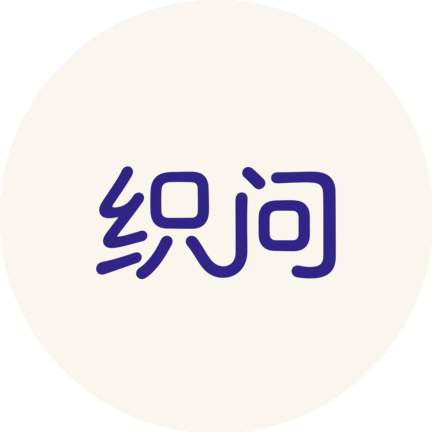
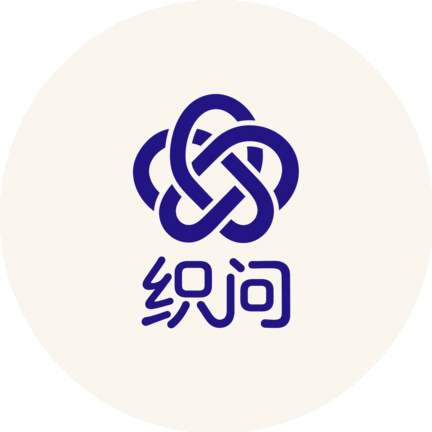
Use new artwork for launcher while preserving splash

Changed region(s): [[0.2106, 0.2106, 0.7824, 0.7824]]

diff --git a/catalog/src/test/java/app/knotwork/design/screens/splash/SplashContentSnapshotTest.kt b/catalog/src/test/java/app/knotwork/design/screens/splash/SplashContentSnapshotTest.kt
@@ -149,7 +149,7 @@ class SplashContentSnapshotTest {
     }
 
     @Test
-    fun launcher_and_splash_use_the_original_artwork_within_the_safe_area() {
+    fun splash_uses_the_original_wordmark_within_the_safe_area() {
         val originalFile = File("../brand/reference-original.jpg")
         val digest = MessageDigest.getInstance("SHA-256").digest(originalFile.readBytes())
             .joinToString("") { "%02x".format(it.toInt() and 0xff) }
@@ -186,16 +186,53 @@ class SplashContentSnapshotTest {
         val widthFraction = (maxX - minX + 1) * 75.5 / mask.width / 108
         assertTrue("The mark should occupy about 56% of the icon", widthFraction in 0.54..0.57)
         assertTrue("The artwork must stay inside the circular safe area", maxRadius <= 33.0)
-        listOf("ic_launcher_foreground", "ic_launcher_monochrome").forEach { name ->
-            val xml = File("../app/src/main/res/drawable/$name.xml").readText()
-            assertTrue(xml.contains("@drawable/brand_mark"))
-            assertTrue(xml.contains("16.25dp"))
-        }
-        val night = File("../app/src/main/res/drawable-night/ic_launcher_foreground.xml").readText()
+        val day = File("../app/src/main/res/drawable/brand_startup_foreground.xml").readText()
+        assertTrue(day.contains("@drawable/brand_mark"))
+        assertTrue(day.contains("16.25dp"))
+        val night = File("../app/src/main/res/drawable-night/brand_startup_foreground.xml").readText()
         assertTrue(night.contains("@drawable/brand_mark"))
         assertTrue(night.contains("@color/brand_startup_ink"))
         val theme = File("../app/src/main/res/values/themes.xml").readText()
-        assertTrue(theme.contains("@drawable/ic_launcher_foreground"))
+        assertTrue(theme.contains("@drawable/brand_startup_foreground"))
+    }
+
+    @Test
+    fun launcher_uses_the_new_original_artwork_within_the_safe_area() {
+        val originalFile = File("../brand/launcher-original.png")
+        val digest = MessageDigest.getInstance("SHA-256").digest(originalFile.readBytes())
+            .joinToString("") { "%02x".format(it.toInt() and 0xff) }
[1 lines of base64/hex data omitted]
+        val original = ImageIO.read(originalFile)
+        val foreground = ImageIO.read(File("../app/src/main/res/drawable-nodpi/launcher_mark.png"))
+        assertEquals(original.width, foreground.width)
+        assertEquals(original.height, foreground.height)
+        var opaque = 0
+        var differences = 0
+        var maxRadius = 0.0
+        for (y in 0 until foreground.height) {
+            for (x in 0 until foreground.width) {
+                val pixel = foreground.getRGB(x, y)
+                val alpha = pixel ushr 24
+                if (alpha == 0) continue
+                val dx = (x - foreground.width / 2.0) * 70.0 / foreground.width
+                val dy = (y - foreground.height / 2.0) * 70.0 / foreground.height
+                maxRadius = maxOf(maxRadius, kotlin.math.hypot(dx, dy))
+                if (alpha != 255) continue
+                opaque++
+                if ((pixel and 0xffffff) != (original.getRGB(x, y) and 0xffffff)) differences++
+            }
+        }
+        assertTrue("The new drawing must include opaque pixels", opaque > 20)
+        assertEquals("Opaque pixels must retain their original RGB", 0, differences)
+        assertTrue("All visible pixels must remain in the icon safe circle", maxRadius <= 33.0)
+        listOf("ic_launcher_foreground", "ic_launcher_monochrome").forEach { name ->
+            val xml = File("../app/src/main/res/drawable/$name.xml").readText()
+            assertTrue(xml.contains("@drawable/launcher_mark"))
+            assertTrue(xml.contains("19dp"))
+        }
+        val night = File("../app/src/main/res/drawable-night/ic_launcher_foreground.xml").readText()
+        assertTrue(night.contains("@drawable/launcher_mark"))
+        assertTrue(night.contains("@color/brand_startup_ink"))
     }
 
     private fun assertSameArtworkColor(original: Int, pixel: Int) {

diff --git a/brand/review/platform-investigation.md b/brand/review/platform-investigation.md
@@ -1,10 +1,29 @@
-# 系统启动动画技术调查（未通过，仍阻断）
+# 系统启动动画调查与 CI 实测（未通过，仍阻断）
 
-基线：PR #6 `3cce060`。本文件记录调查与执行环境限制，不代表完成平台技术验证。
+生产主题 `app/src/main/res/values/themes.xml` 的开屏图案为静态
+`@drawable/brand_startup_foreground`，包含原字标的位图，不是动画载体。桌面图标在用户
+更新设计后使用独立资源，不改变开屏。`MainActivity` 把平台起始时间传给 Compose；静态
+平台图标给出的时间无效时，应用显示完成态，未实现一秒逐笔织入。
 
-- 生产主题 `app/src/main/res/values/themes.xml` 的启动图标仍为静态 `@drawable/ic_launcher_foreground`，根资源是包含原图位图的 inset；它不是动画载体。`MainActivity` 的系统启动回调向 Compose 传递平台起始时间。平台提供零或无效值时，现有应用页面直接显示完成态；这不构成一秒织入。
-- 现有 Compose 的独立预览采用水平裁切，它不能证明真实启动逐笔绘制。加载页放大之后，静态系统图标到应用页也可能出现尺寸跳变；本次尚未解决进度/几何接力。
-- Android [启动画面文档](https://developer.android.com/develop/ui/views/launch/splash-screen)支持平台动画资源，并不能证明原 PNG 可无损嵌入 AnimatedVectorDrawable，也不能证明本项目中一个候选在系统启动环境已经播放。
-- [AnimationDrawable 源码](https://android.googlesource.com/platform/frameworks/base/+/refs/heads/main/graphics/java/android/graphics/drawable/AnimationDrawable.java)按运行时间及每帧时长调度；不应未经验证就认定其会遵循系统动画缩放。以普通图层包装动画也不能证明启动系统会启动内部图层。
-- 环境检查：SDK 只有 build-tools、cmdline-tools、platform-tools、platforms，未发现 emulator 和 system-images。`adb devices -l` 启动服务器时因 `/home/agent/.android` 只读失败。未有实际 API 34/36 动画候选、系统设置或系统启动实测；无最小失败设备演示，不能把源码推断当设备失败证据。
-- 后续应以原图为视觉真值实现候选，在真实主题/Activity 分别核验根载体、逐笔中间帧、末帧、0.5×/1×/2×、animator/transition 关闭组合、系统到应用的时间和尺寸、快速 ready 立即导航。不能用静态图片加 duration 或独立预览结果充当证据。
+PR #6 提交 `873d6c9` 的 [Instrumented CI](https://github.com/xialia150-wq/knotwork/actions/runs/43663906584)
+复用 API 34 和 API 36 模拟器，执行真实 `MainActivity` 冷启动录像；分别记录 1×、0.5×、
+2×、仅关闭动画器、仅关闭转场以及全部关闭。两台模拟器的正常倍率录像中，系统开屏
+均显示完整静态字标；正常与全部关闭录像均能看到系统小字标切换为较大的加载页字标。
+六组均返回 `COLD`，录像、设置和对应 APK 哈希位于上述 CI 的 artifacts。API 34 仅关闭
+动画器的录像没有捕捉到加载页，不能据此评价该组合的交接。采集成功不代表动画需求通过。
+
+当前 Compose 独立预览的水平裁切不是逐笔绘制，也不能证明真实系统启动动画。正常模式
+的约一秒织入、系统到应用的动画时间/几何接力、不同倍率和减少动效下的目标表现均未
+实现或验证。初始化不应为动画等待，错误和恢复行为也需保留。
+
+Android [启动画面文档](https://developer.android.com/develop/ui/views/launch/splash-screen)
+支持平台动画资源，并不能证明原 PNG 可无损嵌入 AnimatedVectorDrawable，也不能证明
+某候选在本项目系统启动环境已经播放。[AnimationDrawable 源码](https://android.googlesource.com/platform/frameworks/base/+/refs/heads/main/graphics/java/android/graphics/drawable/AnimationDrawable.java)
+按运行时间及每帧时长调度，不能未经验证就认定它遵循系统动画缩放。普通图层包装动画
+也不能证明启动系统会启动内部图层。
+
+本地曾以 Potrace 1.16 对原 PNG 的 alpha 阈值生成 SVG 候选；在 1254×1254 下二值比较有
+854 像素不同，并丢失连续 alpha 与原 RGB，未接入产品。它不是 AVD，也不是系统启动
+试验。后续应以原图为视觉真值，验证真实动画载体、逐笔中间帧、末帧、动画缩放、系统
+到应用的时间和尺寸、快速 ready 立即导航。不能用静态图片加 duration、独立预览或
+手机验收代替尚未完成的动画实现。

diff --git a/brand/README.md b/brand/README.md
@@ -14,11 +14,28 @@ convert brand/reference-original.jpg alpha.png -alpha off -compose CopyOpacity -
 ```
 
 透明提取会改变字形边缘的 alpha 和移除米白背景，并非原始 JPEG 的逐字节副本；文字的
-位置与相对比例直接来自原图。图标在 108 dp 视口内等比缩放至 75.5 dp，测试检查约 56%
-的字形宽度、圆形安全区、原图 SHA-256 和字形区域 RGB。深色图标使用主题色着色，系统
-单色图标使用同一透明轮廓。实际桌面裁切与显示仍需设备验证。
+位置与相对比例直接来自原图。系统开屏图案在 108 dp 视口内等比缩放至 75.5 dp；
+测试检查字形宽度、圆形安全区、原图 SHA-256 和字形区域 RGB。深色开屏使用主题色着色。
 
 加载页单独使用 PNG 中非零 alpha 包围盒 `[129, 418, 1125, 890)`，四周增加 2px
 边距，源矩形为 `[127, 416, 1127, 892)`；按等比缩放、目标宽度约屏宽的 64%，
 上限 320dp，并受可用宽高限制。启动图标仍沿用安全区规则。离线预览和已知限制见
 `brand/review/README.md`；系统启动与放大后的加载页尺寸衔接尚未解决。
+
+## 新桌面图标（2026-11-15）
+
+`launcher-original.png` 是用户提供的 1254 × 1254 新图原件，SHA-256：
[1 lines of base64/hex data omitted]
+只用于桌面图标；系统开屏和加载页仍使用上面的原字标。
+
+桌面图标透明前景从新原图按以下方式提取，保留图案与文字的相对比例和不透明像素的 RGB：
+
+```sh
+convert brand/launcher-original.png -colorspace gray -negate -level 8%,75% alpha.png
+convert brand/launcher-original.png alpha.png -alpha off -compose CopyOpacity -composite \
+  app/src/main/res/drawable-nodpi/launcher_mark.png
+```
+
+透明提取改变边缘 alpha 并移除原图背景，深色和单色变体对同一轮廓着色；并非逐字节
+显示原图。桌面前景在 108 dp 视口内等比缩放至 70 dp，所有非透明像素落在半径 33 dp
+安全圆内。圆形、圆角及小尺寸图片仅为离线模拟；实际桌面显示仍需设备检查。

diff --git a/brand/review/README.md b/brand/review/README.md
@@ -2,6 +2,6 @@
 
 - `loading-before-after.png`：左右分别为提交 3cce060 与本次修改的浅色加载页截图，单张均为 720×1520 像素；左侧字形约 318px 宽，右侧约 459px 宽。截图来自 Roborazzi，不是设备实拍。
 - 加载页裁切原 PNG 的非透明范围并在四边保留约 2px；360dp 宽时目标画布 230.4dp，字形宽约占屏幕的 63.7%。320dp、360dp 小屏大字号有布局测试，系统启动到加载页的尺寸衔接尚未完成。
-- `launcher-circle.png`、`launcher-rounded.png`：按 108dp 视口和 75.5dp 素材大小做的离线模拟；不是实际启动器截图。背景为浅色启动色。`launcher-48px.png` 是圆形预览缩至 48px 的小图，未再放大。
+- `launcher-circle.png`、`launcher-rounded.png`：按 108dp 视口和 70dp 新图素材大小做的离线模拟；不是实际启动器截图。背景为浅色启动色。`launcher-48px.png` 是圆形预览缩至 48px 的小图，未再放大。
 - `launcher-monochrome.png`：同一字形透明度在深色前景色下的离线展示；系统主题图标实际颜色由系统决定，此图不是系统截图。
-- 原图 JPEG 与源 PNG 均未变更；具体提取方式见上一级 `README.md`。静态系统启动图标与放大的加载页之间仍有尺寸跳变，不能视作交接完成。动画也仍未接入真实生产启动。
+- 原开屏 JPEG 和字标 PNG 均未变更；新桌面图标的用户原件与透明前景另行保存；具体提取方式见上一级 `README.md`。静态系统启动图标与放大的加载页之间仍有尺寸跳变，不能视作交接完成。动画也仍未接入真实生产启动。
